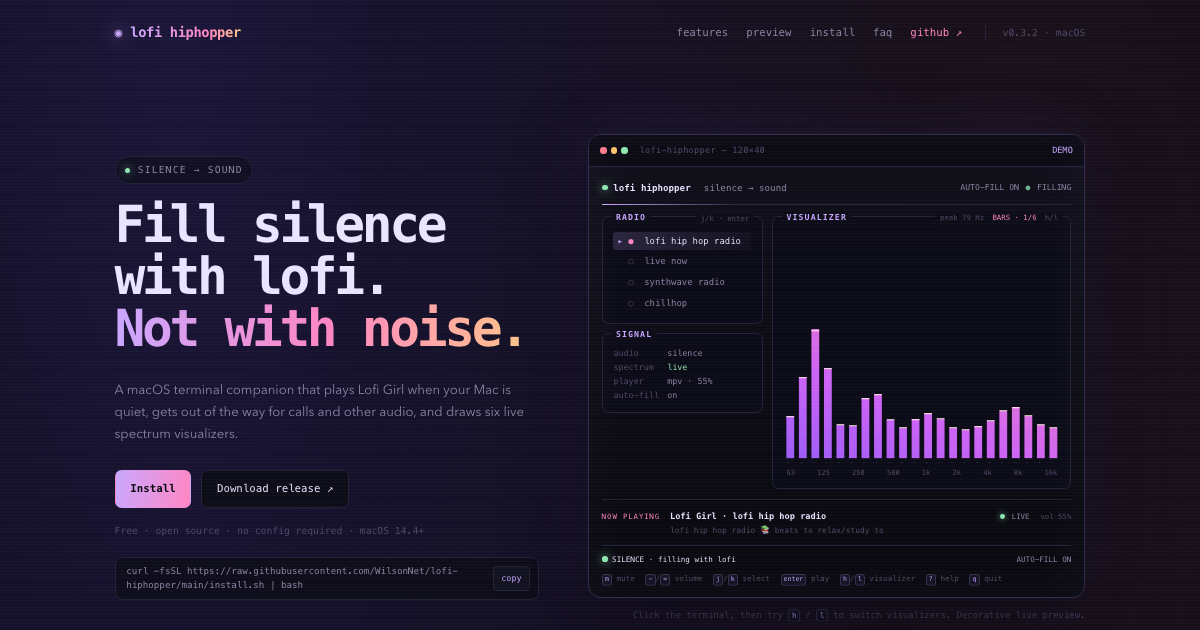
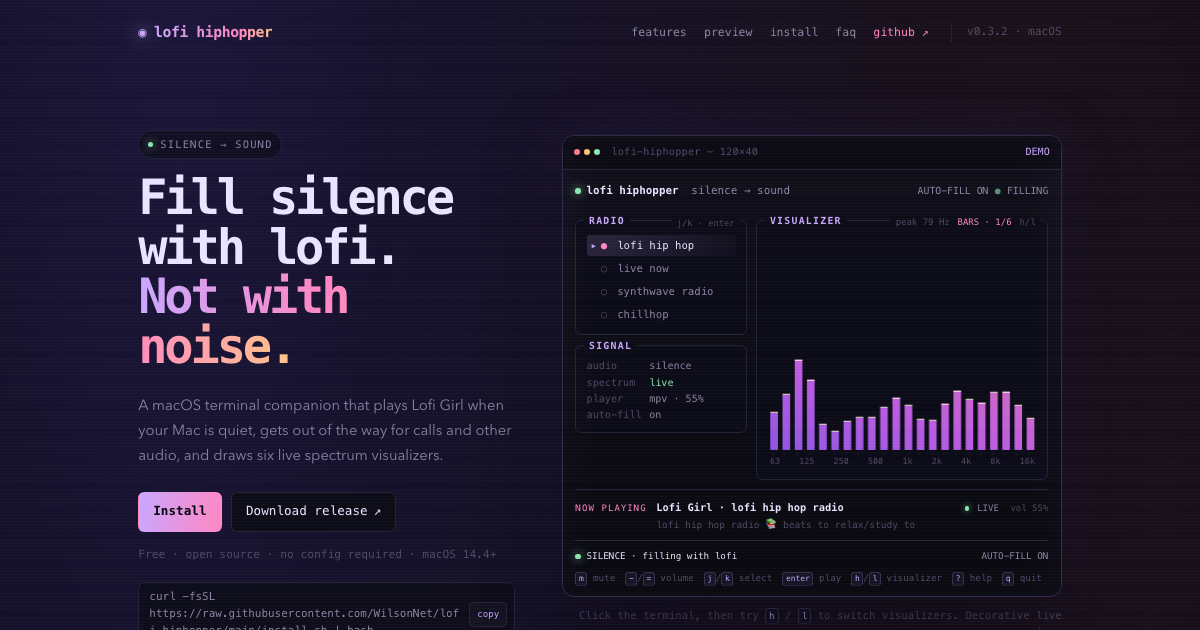
style: make website typography adaptive
Scales the root type size with the viewport, enlarges terminal preview labels, and refreshes the Open Graph image.

diff --git a/site/src/styles/global.css b/site/src/styles/global.css
@@ -29,6 +29,7 @@
 }
 
 html {
+  font-size: clamp(18px, 0.5vw + 12px, 20px);
   scroll-behavior: smooth;
   scroll-padding-top: 90px;
 }
@@ -42,7 +43,7 @@ body {
     var(--bg);
   color: var(--ink);
   font-family: var(--mono);
-  font-size: 16px;
+  font-size: 1rem;
   line-height: 1.65;
   -webkit-font-smoothing: antialiased;
   text-rendering: optimizeLegibility;
@@ -169,13 +170,13 @@ button {
   padding-left: 20px;
   border-left: 1px solid var(--border);
   color: var(--dim);
-  font-size: 0.75rem;
+  font-size: 0.8rem;
   white-space: nowrap;
 }
 
 .hero {
   display: grid;
-  grid-template-columns: minmax(0, 0.92fr) minmax(0, 1.08fr);
+  grid-template-columns: minmax(0, 0.86fr) minmax(0, 1.14fr);
   align-items: center;
   gap: clamp(36px, 5vw, 76px);
   max-width: 1240px;
@@ -233,7 +234,7 @@ button {
   margin: 28px 0 0;
   color: var(--muted);
   font-family: var(--sans);
-  font-size: clamp(1rem, 1.3vw, 1.15rem);
+  font-size: clamp(1.05rem, 1.35vw, 1.25rem);
   line-height: 1.7;
 }
 
@@ -255,7 +256,7 @@ button {
   border-radius: 8px;
   background: var(--panel);
   color: var(--ink);
-  font-size: 0.82rem;
+  font-size: 0.9rem;
   text-decoration: none;
   transition: border-color 140ms ease, background 140ms ease, transform 140ms ease;
 }
@@ -281,7 +282,7 @@ button {
 .hero-note {
   margin: 18px 0 0;
   color: var(--dim);
-  font-size: 0.74rem;
+  font-size: 0.8rem;
 }
 
 .install-mini {
@@ -299,7 +300,7 @@ button {
 .install-mini code {
   min-width: 0;
   color: var(--muted);
-  font-size: 0.7rem;
+  font-size: 0.78rem;
   line-height: 1.55;
   overflow-wrap: anywhere;
 }
@@ -335,7 +336,7 @@ button {
     0 0 0 1px rgba(201, 167, 255, 0.04),
     0 28px 90px rgba(0, 0, 0, 0.55),
     0 0 80px rgba(123, 92, 255, 0.12);
-  font-size: 0.76rem;
+  font-size: 0.88rem;
 }
 
 .terminal::after {
@@ -355,7 +356,7 @@ button {
   border-bottom: 1px solid var(--border);
   background: #0a0a12;
   color: var(--dim);
-  font-size: 0.66rem;
+  font-size: 0.72rem;
 }
 
 .traffic {
@@ -401,7 +402,7 @@ button {
   align-items: center;
   gap: 16px;
   min-width: 0;
-  font-size: 0.7rem;
+  font-size: 0.78rem;
 }
 
 .term-logo {
@@ -426,7 +427,7 @@ button {
   margin-left: auto;
   color: var(--muted);
   white-space: nowrap;
-  font-size: 0.62rem;
+  font-size: 0.7rem;
 }
 
 .pulse-dot {
@@ -442,7 +443,7 @@ button {
 
 .term-grid {
   display: grid;
-  grid-template-columns: minmax(196px, 0.8fr) minmax(0, 1.55fr);
+  grid-template-columns: minmax(220px, 0.82fr) minmax(0, 1.52fr);
   gap: 12px;
 }
 
@@ -469,7 +470,7 @@ button {
   padding: 0 6px;
   background: #0d0d18;
   color: var(--accent);
-  font-size: 0.63rem;
+  font-size: 0.7rem;
   font-weight: 600;
   letter-spacing: 0.13em;
   line-height: 1.4;
@@ -482,7 +483,7 @@ button {
   padding: 0 6px;
   background: #0d0d18;
   color: var(--dim);
-  font-size: 0.56rem;
+  font-size: 0.62rem;
 }
 
 .radio-list {
@@ -492,7 +493,7 @@ button {
   padding: 0;
   list-style: none;
   color: var(--muted);
-  font-size: 0.68rem;
+  font-size: 0.76rem;
   line-height: 1.5;
 }
 
@@ -531,7 +532,7 @@ button {
   gap: 1px 10px;
   margin: 0;
   color: var(--dim);
-  font-size: 0.64rem;
+  font-size: 0.72rem;
   line-height: 1.55;
 }
 
@@ -560,7 +561,7 @@ button {
   padding: 0 6px;
   background: #0d0d18;
   color: var(--dim);
-  font-size: 0.56rem;
+  font-size: 0.64rem;
 }
 
 .viz-meta #mode-label {
@@ -596,7 +597,7 @@ button {
   justify-content: space-between;
   padding: 4px 3px 0;
   color: var(--dim);
-  font-size: 0.54rem;
+  font-size: 0.6rem;
 }
 
 .term-now {
@@ -607,12 +608,12 @@ button {
   margin-top: 12px;
   padding-top: 11px;
   border-top: 1px solid var(--border);
-  font-size: 0.66rem;
+  font-size: 0.74rem;
 }
 
 .now-label {
   color: var(--pink);
-  font-size: 0.56rem;
+  font-size: 0.64rem;
   letter-spacing: 0.12em;
 }
 
@@ -628,7 +629,7 @@ button {
   grid-column: 2;
   overflow: hidden;
   color: var(--dim);
-  font-size: 0.6rem;
+  font-size: 0.68rem;
   white-space: nowrap;
   text-overflow: ellipsis;
 }
@@ -637,7 +638,7 @@ button {
   grid-row: 1 / span 2;
   grid-column: 3;
   color: var(--muted);
-  font-size: 0.56rem;
+  font-size: 0.64rem;
   white-space: nowrap;
 }
 
@@ -663,7 +664,7 @@ button {
   gap: 4px 20px;
   margin-top: 9px;
   color: var(--muted);
-  font-size: 0.58rem;
+  font-size: 0.66rem;
 }
 
 .term-status {
@@ -699,7 +700,7 @@ kbd {
 .demo-caption {
   margin: 12px 0 0;
   color: var(--dim);
-  font-size: 0.68rem;
+  font-size: 0.76rem;
   text-align: right;
 }
 
@@ -781,7 +782,7 @@ kbd {
 
 .feature-card h3 {
   margin: 0 0 9px;
-  font-size: 0.98rem;
+  font-size: 1.06rem;
   letter-spacing: -0.02em;
 }
 
@@ -789,7 +790,7 @@ kbd {
   margin: 0;
   color: var(--muted);
   font-family: var(--sans);
-  font-size: 0.9rem;
+  font-size: 1rem;
   line-height: 1.65;
 }
 
@@ -833,7 +834,7 @@ kbd {
 .screen-card figcaption {
   padding: 13px 15px;
   color: var(--muted);
-  font-size: 0.72rem;
+  font-size: 0.8rem;
 }
 
 .install-section {
@@ -873,7 +874,7 @@ kbd {
   border-radius: 9px;
   background: #090911;
   color: var(--ink);
-  font-size: 0.74rem;
+  font-size: 0.82rem;
   line-height: 1.75;
   tab-size: 2;
 }
@@ -897,7 +898,7 @@ kbd {
 .small-note {
   margin: 18px 0 0;
   color: var(--dim);
-  font-size: 0.73rem;
+  font-size: 0.8rem;
   line-height: 1.7;
 }
 
@@ -912,7 +913,7 @@ kbd {
 .config-panel pre {
   margin: 7px 0 0;
   padding: 13px 14px;
-  font-size: 0.69rem;
+  font-size: 0.77rem;
   line-height: 1.7;
 }
 
@@ -940,7 +941,7 @@ details[open] {
 summary {
   cursor: pointer;
   color: var(--ink);
-  font-size: 0.86rem;
+  font-size: 0.95rem;
   list-style: none;
 }
 
@@ -964,7 +965,7 @@ details p {
   margin: 11px 0 0 1.2em;
   color: var(--muted);
   font-family: var(--sans);
-  font-size: 0.9rem;
+  font-size: 1rem;
   line-height: 1.65;
 }
 
@@ -1006,7 +1007,7 @@ details p {
   padding: 25px 28px 34px;
   border-top: 1px solid var(--border);
   color: var(--dim);
-  font-size: 0.7rem;
+  font-size: 0.78rem;
 }
 
 .site-footer a {
@@ -1034,7 +1035,7 @@ details p {
   border-radius: 7px;
   background: var(--panel-raised);
   color: var(--success);
-  font-size: 0.72rem;
+  font-size: 0.8rem;
   opacity: 0;
   transform: translateY(8px);
   pointer-events: none;
@@ -1088,7 +1089,7 @@ details p {
   gap: 5px 12px;
   margin: 20px 0;
   color: var(--muted);
-  font-size: 0.78rem;
+  font-size: 0.85rem;
 }
 
 .shortcut-dialog dt {
@@ -1102,7 +1103,7 @@ details p {
 .dialog-note {
   margin: 0;
   color: var(--dim);
-  font-size: 0.68rem;
+  font-size: 0.76rem;
 }
 
 @keyframes pulse {
@@ -1173,7 +1174,7 @@ details p {
 
 @media (max-width: 640px) {
   body {
-    font-size: 15px;
+    font-size: 1rem;
   }
 
   .site-header,
